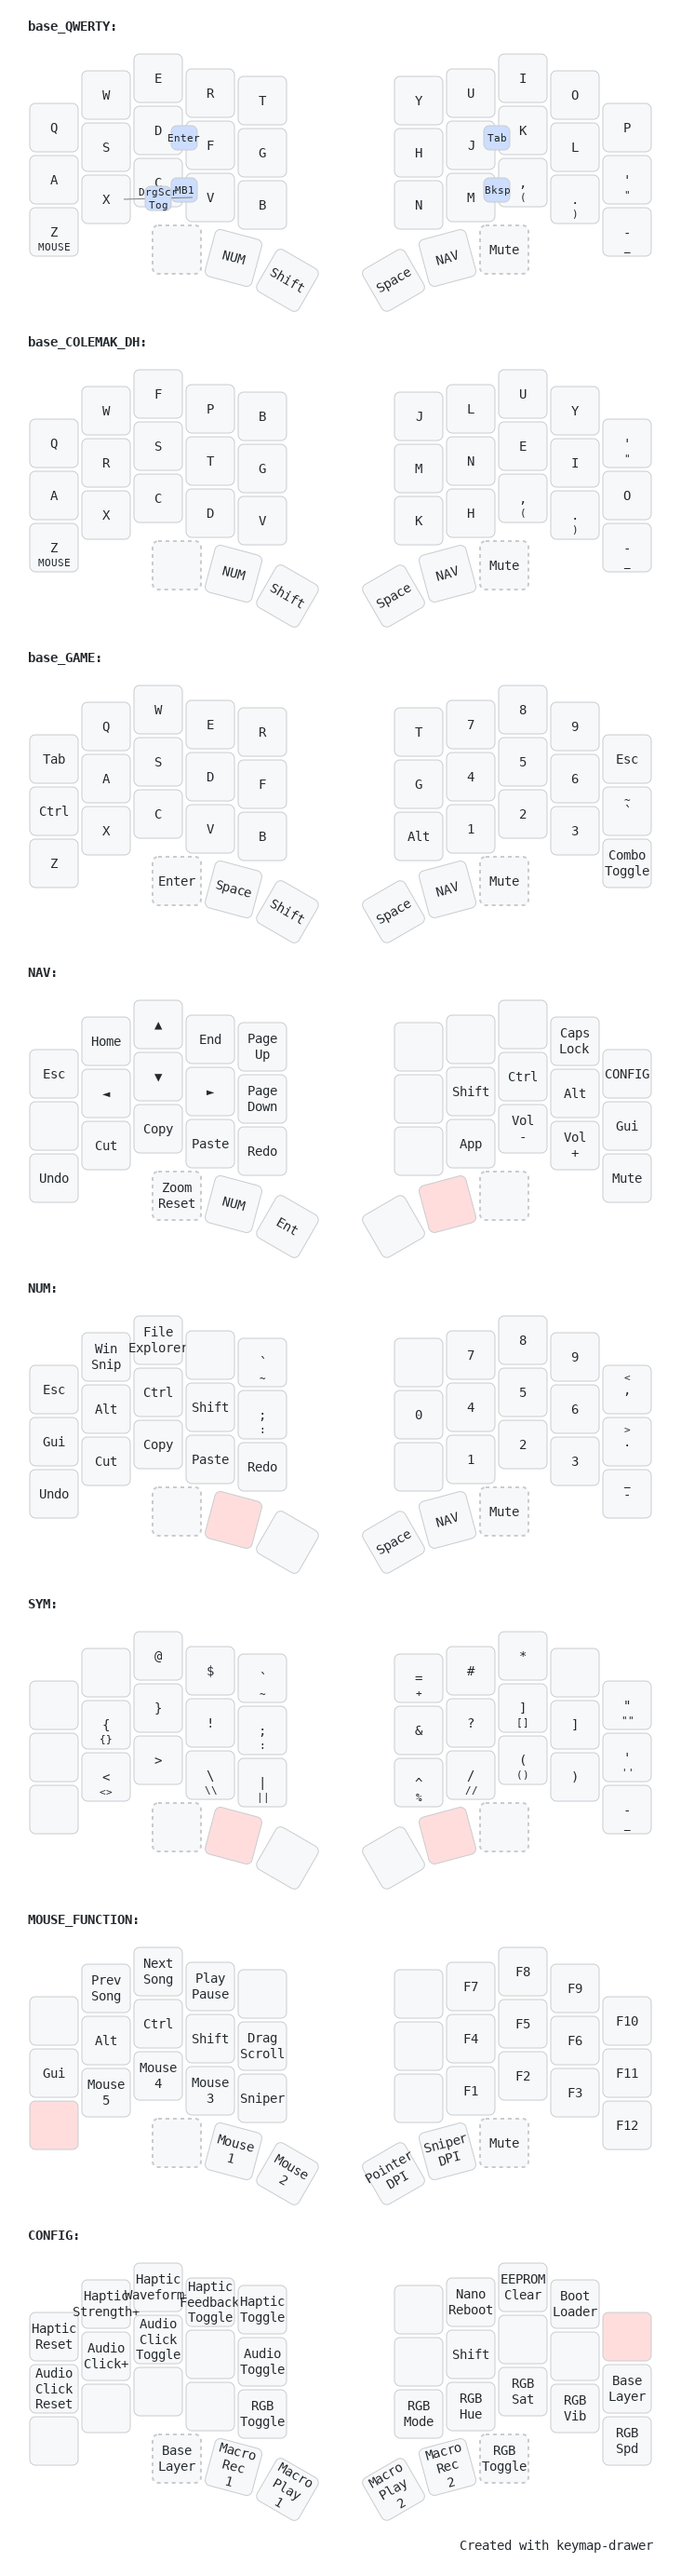
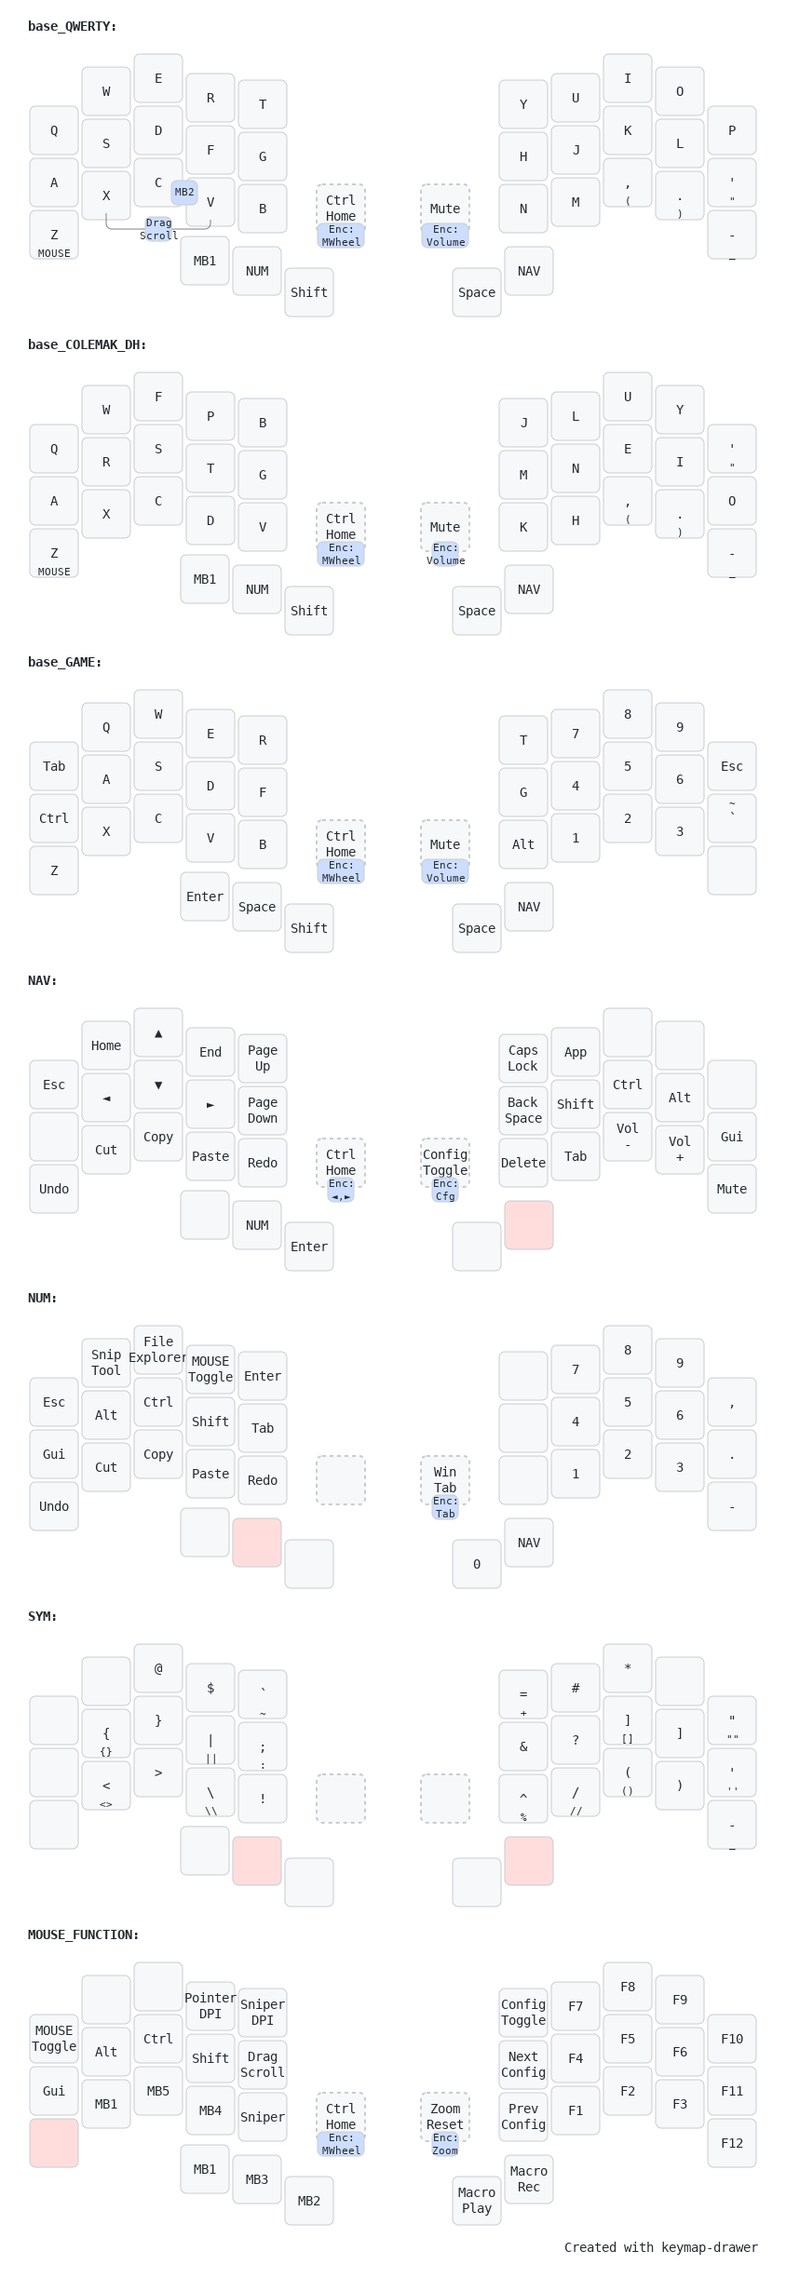
Updating Documentation

diff --git a/README.md b/README.md
@@ -4,16 +4,16 @@ My userspace for building QMK firmware via GitHub Actions. This does not require
 
 ## Layout
 
-The custom layout optimizes for programming (SQL, Powershell, C) and minimizes holds for comfort. It started from [Manna Harbor Miryoku](https://github.com/manna-harbour/miryoku) and took heavy influence from [Jonas Hietala T-34](https://www.jonashietala.se/series/t-34/). The keymap designed for split 3x5, two thumbs keys, dual encoders, and combined with a Ploopy Nano trackball mouse. Design themes:
+The custom layout optimizes for programming (SQL, Powershell, C) and minimizes holds for comfort. It started from [Manna Harbor Miryoku](https://github.com/manna-harbour/miryoku) and took heavy influence from [Jonas Hietala T-34](https://www.jonashietala.se/series/t-34/). Design Themes:
 
+- The keymap designed for my ideal board: split 3x5 boards with five thumb keys, right side encoder, combined with a Ploopy Nano trackball mouse
+- The userspace supports a sixth thumb key and left side encoder as well
 - Releasing all keys always brings you back to base layer
-- Patterns to layout design to reduce learning curve (e.g., Shortcuts in same place on multiple layers)
-- Symbols important for powershell / writing are positioned under stronger fingers
-- Game keymap that doesn't require massive game key bind changes. Tested on Resident Evil 4 Remake
-
-Notes:
-
-- Outside thumb keys are encoder clicks. Some keyboards may have extra thumb keys
+- Layers are designed orthogonally with a single purpose per hand and are accessed by holding a thumb key on the opposite hand
+- Reworking Symbols for programming focus
+  - Common symbols are positioned under stronger fingers
+  - Custom behavior from holds
+- Advanced encoder map functionality to minimize/simplify layers
 
 ![image](my_keymap.png)
 
@@ -27,7 +27,7 @@ Notes:
 
 A single keymap layout can be shared with multiple keyboards by using C preprocessor macros. These macros are referenced in the keyboard JSON files, and the build process will expand them into a transient keymap.c file during compile time.
 
-In this userspace, the base split 3x5_3 layout can be adapted for other split keyboards by expanding it with macros. For example, there is a wrapper that will add extra columns to the base layout for a Corne's 42-key 3x6_3 layout.
+In this userspace, the base split 3x5_3 with dual encoders layout can be adapted for other split keyboards by expanding it with macros. For example, there is a wrapper that will add extra columns to the base layout for a Corne's 42-key 3x6_3 layout.
 
 ### Tri-Layer
 
@@ -77,26 +77,54 @@ Opted to implement overrides here instead of using built-in Key Override functio
 
 ### Combos
 
-Enables additional keys to be mapped by pressing multiple keys simultaneously. Primarily used to implement mouse buttons and make important keys (tab, backspace, etc) available on base layer. Combos are mapped based on the QWERTY layout but will work on any layer*. All Combos are disabled when `CONFIG` layer is active
+Enables additional keys to be mapped by pressing multiple keys simultaneously. Primarily used to enable mouse functionality on base layer
 
 | Combo         | Result               | Comment                                           |
 | ------------- | -------------------- | ------------------------------------------------- |
-| `C` + `V`     | `KC_BTN1`            | Left click. Mouse buttons only work on base layer |
-| `X` + `V`     | `Drag Scroll Toggle` | Actual command varies per board                   |
-| `D` + `F`     | `KC_ENT`             |                                                   |
-| `J` + `K`     | `KC_TAB`             |                                                   |
-| `M` + `Comma` | `KC_BSPC`            |                                                   |
+| `C` + `V`     | `KC_BTN2`            | Left click. Mouse buttons only work on base layer |
+| `X` + `V`     | `Drag Scroll Hold`   | Actual command varies per board                   |
 
-### Key Overrides
+### Advanced Encoder Functionality
 
-Enables us to customize the result of applying certain mods to keycodes. For example, Shift + Backspace will give Delete. Primarily used to minimize the number of layers and the layout
+Implemented custom keycodes for encoders to enable modifiers to change encoder output and enable window/tab switching and mouse wheel zoom. The purpose is to remove seldomly used feature configuration keys to simplify the keymap
 
-| Shortcut            | Result    | Comment                                                                       |
-| ------------------- | --------- | ----------------------------------------------------------------------------- |
-| `Shift` + `KC_BSPC` | `KC_DEL`  | Backspace is a combo. There are no dedicated backspace and delete keys mapped |
-| `Shift` + `HF_NEXT` | `HF_PREV` | Only works on `CONFIG` layer  Only for keyboards with Haptic feedback enabled |
-| `Shift` + `HF_CONU` | `HF_COND` | Only works on `CONFIG` layer. Only for keyboards with Haptic feedback enabled |
-| `Shift` + `CK_UP`   | `CK_DOWN` | Only works on `CONFIG` layer. Only for keyboards with Audio enabled           |
+#### Tabbing
+
+The NUM layer right side encoder will `tab` and `shift+tab`. Holding `alt` or `ctrl` will allow Window or Browser tab switching
+
+#### Zoom
+
+The MOUSE_FUNCTION layer right side encoder will send `ctrl+mouse wheel up` and `ctrl+mouse wheel down` without having to hold modifiers
+
+#### Configuration changes
+
+The NAV layer right side encoder behavior depends on what modifier is held. Refer to the table below
+
+| Held Modifier | Result                                               |
+| ------------- | ---------------------------------------------------- |
+| None          | Cycles through base layers: QWERTY, COLEMAK DH, GAME |
+| Shift         | Changes RGB Matrix Hue                               |
+| Ctrl          | Changes RGB Matrix Sat                               |
+| Alt           | Changes RGB Matrix Brightness                        |
+| Gui           | Changes RGB Matrix Animation Speed                   |
+| Shift+Ctrl    | Changes RGB Matrix Animation                         |
+| Ctrl+Alt      | Changes Haptic Feedback Frequency                    |
+| Alt+Gui       | Changes Audio Click Frequency                        |
+
+### Advanced Config Toggle
+
+Implemented a custom keycode to enable modifiers to affect which feature is toggled. Similar to the Advanced Encoder, the purpose is to remove seldomly used keycodes and simplify the keymap. Refer to the table below
+
+| Held Modifier | Result                                               |
+| ------------- | ---------------------------------------------------- |
+| None          | Cycles through base layers: QWERTY, COLEMAK DH, GAME |
+| Shift         | Enter Bootloader                                     |
+| Ctrl          | Enter Ploopy Nano Bootloader                         |
+| Alt           | Toggle RGB Matrix On/Off                             |
+| Gui           | Toggle Combos On/Off                                 |
+| Shift+Ctrl    | Toggle Haptic Feedback On/Off                        |
+| Ctrl+Alt      | Toggle Audio On/Off                                  |
+| Alt+Gui       | Toggle Audio Clicks On/Off                           |
 
 ## Optional Features
 
